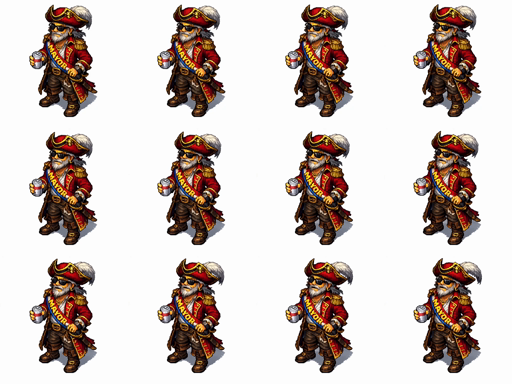
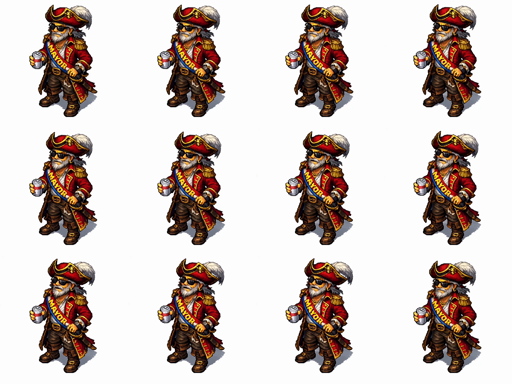
v2.3.1218: re-bake Mayor Bro idle from the corrected grid (loop-pop fix)
Owner supplied an updated 4x3 grid that fixes the pop between the first and
last idle frames. Re-baked mayor-s.png from it (same in-browser flood-fill
key + row-major stitch), refreshed the committed source grid, and bumped
SPRITE_VERSION 1.0.0 -> 1.0.1 so the Cloudflare edge cache serves the new
sheet instead of the old one.

Claude-Session: https://claude.ai/code/session_01Y1bRqA99GUUbyoJ2eVy7UV

Changed region(s): [[0.7812, 0.6562, 0.9375, 0.9375]]

diff --git a/src/rendering/mayorSprites.js b/src/rendering/mayorSprites.js
@@ -24,7 +24,7 @@ const FRAME_H = 128;
 /* Bump on every sprite-art re-bake.  Cloudflare Pages' edge cache holds the
    previous PNG by URL, so swapping bytes alone isn't enough — the ?v=… has
    to change while the file keeps its name. */
-export const SPRITE_VERSION = '1.0.0';
+export const SPRITE_VERSION = '1.0.1'; // 1.0.1: re-bake fixes the first<->last frame loop pop
 
 let frames = [];
 let loadPromise = null;
